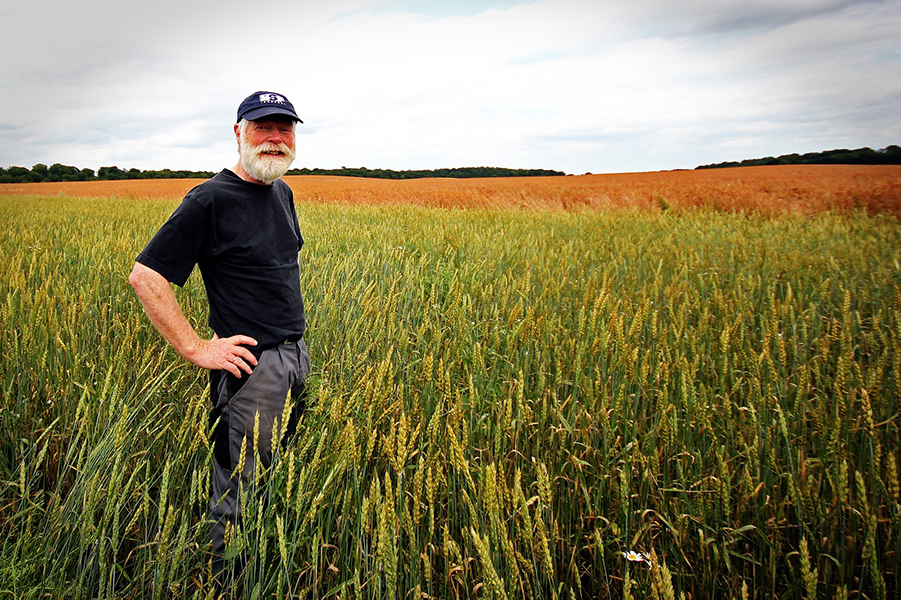
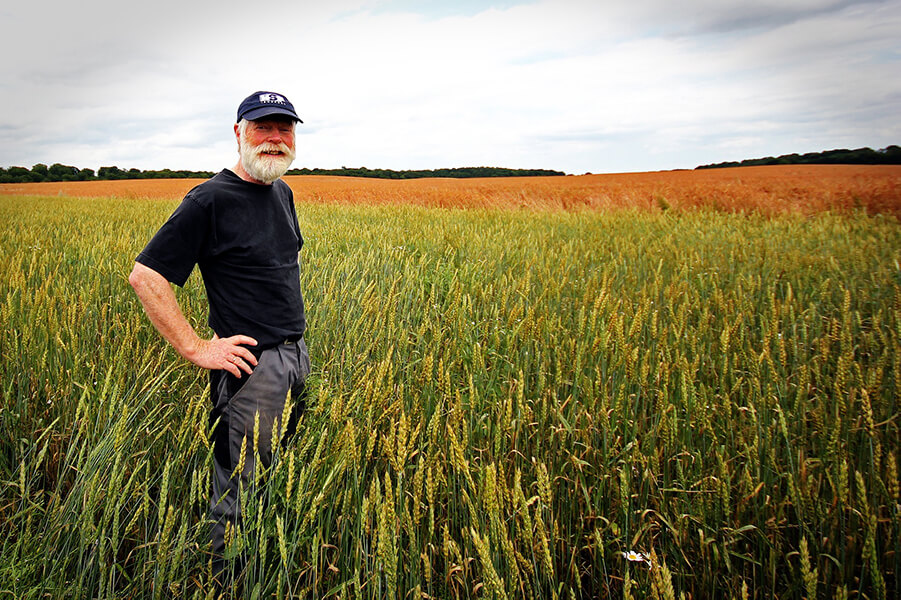
Optimized photos. Added lazy loading to some images. Added slide-ups on Blog Section.

diff --git a/index.html b/index.html
@@ -233,7 +233,7 @@
       <div class="container featured-content-container">
         <p class="section-title-light">FEATURED PRODUCTS</p>
         <div class="row featured-row">
-          <div class="img featured-product-1" loading="lazy">
+          <div class="img featured-product-1 lazy">
             <div class="featured-product-wrapper">
               <p class="featured-product-name">100% Pure Virgin Oil, 1 liter</p>
               <div class="featured-product-seller">ACME Pure Oil Farms</div>
@@ -242,7 +242,7 @@
             <a class="featured-product-link" href="#">Shop Now</a>
           </div>
           <div class="featured-wrapper">
-            <div class="img featured-product-2" loading="lazy">
+            <div class="img featured-product-2 lazy">
               <div class="featured-product-wrapper">
                 <p class="featured-product-name">Goat Cheese, 1lb</p>
                 <div class="featured-product-seller">ACME Goat Farm</div>
@@ -250,7 +250,7 @@
               </div>
               <a class="featured-product-link" href="#">Shop Now</a>
             </div>
-            <div class="img featured-product-3" loading="lazy">
+            <div class="img featured-product-3 lazy">
               <div class="featured-product-wrapper">
                 <p class="featured-product-name">Select Vegetables, 5lbs</p>
                 <div class="featured-product-seller">Jack and Jill Farms</div>
@@ -412,7 +412,7 @@
         </div>
 
         <div class="col col-md-6 promo-video-col">
-          <div class="img promo-video" loading="lazy">
+          <div class="img promo-video lazy">
             <div class="promo-video-wrapper">
               <p class="promo-video-header">
                 How it works... <br />As simple as 1, 2, 3.
@@ -433,7 +433,7 @@
     <div class="container-fluid join-us-container">
       <div class="row support-farmers-row">
         <div class="col col-md-6 promo-video-col">
-          <div class="img join-us" loading="lazy">
+          <div class="img join-us lazy">
             <div class="join-us-btn-wrapper">
               <div class="join-us-btn">Join Us</div>
             </div>
@@ -481,17 +481,32 @@
     <div class="container-fluid blog-container">
       <div class="row blog-row">
         <div class="col-xs-12 col-sm-6 col-md-3 recipe">
+          <div class="overlay">
+            <div class="recipe-content-wrapper">
+              <h2>Header here</h2>
+              <p>Text here</p>
+            </div>
+          </div>
           <p class="recipe-header">Baked Pepperoni Cheese Pizza Deluxe</p>
           <div class="recipe-block">RECIPE</div>
         </div>
         <div class="col-xs-12 col-sm-6 col-md-3 blog d-none">
+          
+          <div class="blog-overlay">
+            <div class="blog-content-wrapper">
+              <h2>Header here</h2>
+              <p>Text here</p>
+            </div>
+          </div>
           <img
             src="assets/farm-logos/59F7E7F70467B68402C3E9F625EB16E7_.png"
             alt=""
           />
+          
+          
           <div class="blog-block">BLOG</div>
         </div>
-        <div class="col-xs-12 col-sm-6 col-md-3 recipe d-none">
+        <div class="col-xs-12 col-sm-6 col-md-3 recipe lazy d-none">
           <p class="recipe-header">Baked Pepperoni Cheese Pizza Deluxe</p>
           <div class="recipe-block">RECIPE</div>
         </div>
@@ -578,6 +593,58 @@
           $('.active').removeClass('active');
         }
       });
+    </script>
+    
+    <script language="javascript" type="text/javascript">
+      document.addEventListener("DOMContentLoaded", function() {
+  var lazyloadImages;    
+
+  if ("IntersectionObserver" in window) {
+    lazyloadImages = document.querySelectorAll(".lazy");
+    var imageObserver = new IntersectionObserver(function(entries, observer) {
+      entries.forEach(function(entry) {
+        if (entry.isIntersecting) {
+          var image = entry.target;
+          image.classList.remove("lazy");
+          imageObserver.unobserve(image);
+        }
+      });
+    });
+
+    lazyloadImages.forEach(function(image) {
+      imageObserver.observe(image);
+    });
+  } else {  
+    var lazyloadThrottleTimeout;
+    lazyloadImages = document.querySelectorAll(".lazy");
+    
+    function lazyload () {
+      if(lazyloadThrottleTimeout) {
+        clearTimeout(lazyloadThrottleTimeout);
+      }    
+
+      lazyloadThrottleTimeout = setTimeout(function() {
+        var scrollTop = window.pageYOffset;
+        lazyloadImages.forEach(function(img) {
+            if(img.offsetTop < (window.innerHeight + scrollTop)) {
+              img.src = img.dataset.src;
+              img.classList.remove('lazy');
+            }
+        });
+        if(lazyloadImages.length == 0) { 
+          document.removeEventListener("scroll", lazyload);
+          window.removeEventListener("resize", lazyload);
+          window.removeEventListener("orientationChange", lazyload);
+        }
+      }, 20);
+    }
+
+    document.addEventListener("scroll", lazyload);
+    window.addEventListener("resize", lazyload);
+    window.addEventListener("orientationChange", lazyload);
+  }
+})
+
     </script>
   </body>
 </html>

diff --git a/custom.css b/custom.css
@@ -671,6 +671,62 @@ img {
   position: relative;
 }
 
+.overlay {
+  position: absolute;
+  bottom: 0;
+  left: 0;
+  right: 0;
+  background-color: #ff7f00;
+  overflow: hidden;
+  width: 100%;
+  height: 0;
+  transition: 0.5s ease;
+  z-index: 100;
+}
+
+.blog-overlay{
+  position: absolute;
+  bottom: 0;
+  left: 0;
+  right: 0;
+  background-color: #464646;
+  overflow: hidden;
+  width: 100%;
+  height: 0;
+  transition: 0.5s ease;
+  z-index: 100;
+}
+
+.recipe:hover .overlay {
+  height: 60%;
+}
+
+.blog-container:hover .blog-overlay {
+  height: 60%;
+}
+
+.blog-content-wrapper, .recipe-content-wrapper {
+  color: white;
+  font-size: 20px;
+  position: absolute;
+  top: 30%;
+  left: 50%;
+  -webkit-transform: translate(-50%, -50%);
+  -ms-transform: translate(-50%, -50%);
+  transform: translate(-50%, -50%);
+  display: block;
+  width: 100%;
+  padding: 0 30px 0 30px;
+}
+
+.blog-wrapper h2 {
+  font-size: 22px;
+}
+
+.blog-wrapper p {
+  font-size: 16px;
+}
+
 .blog {
   height: 340px;
   background-color: #c3b664;
